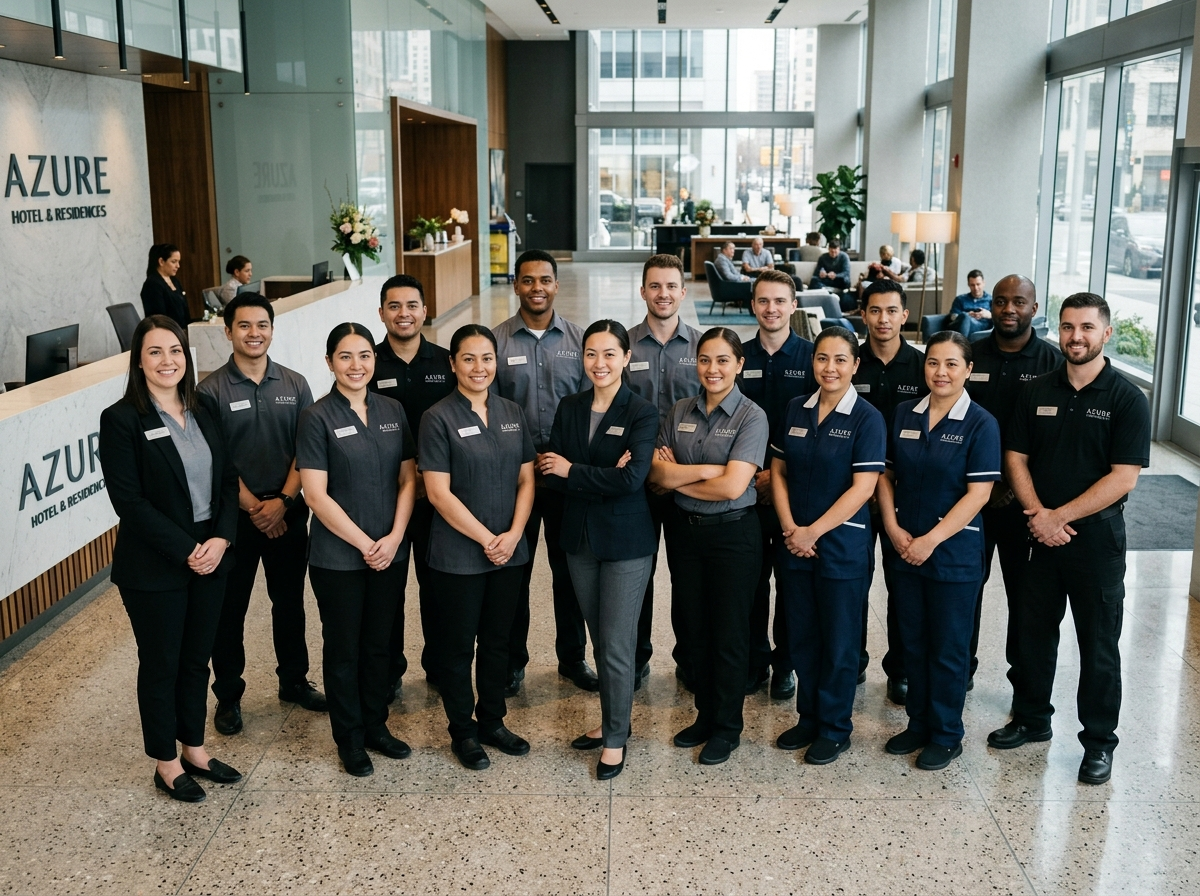
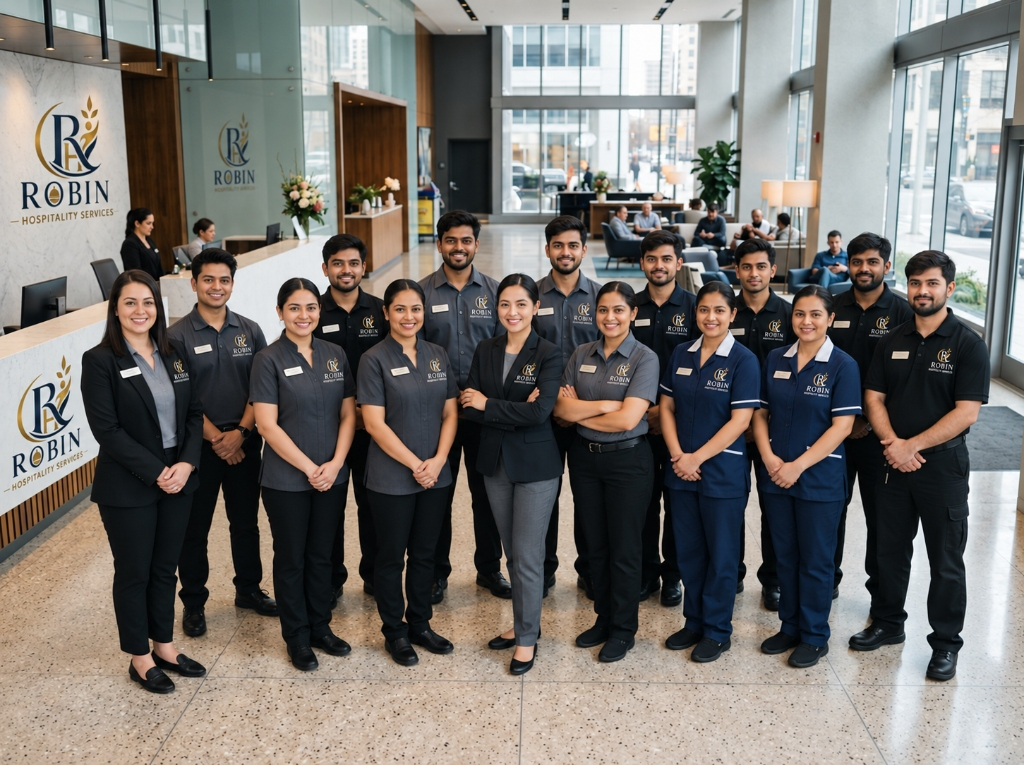
change services section

diff --git a/src/routes/services.catering.tsx b/src/routes/services.catering.tsx
@@ -18,10 +18,10 @@ export function CateringServicePage() {
     {
       id: "industries",
       title: "INDUSTRIES",
-      subtitle: "High-Powered Industrial Cafeteria Solutions",
+      subtitle: "High-Powered Industrial Dining & Meal Solutions",
       image: "/catering-industries.jpg",
       description:
-        "High powered Industrial settings require equally healthy meal options that are also an excellent cost-cutting option with easy operation process and go well with the work environment. Our Industrial Cafeteria provides a balanced meal that boosts employees energy, transferring into better productivity. Apart from the nutritional food, we handpick elements that can add local flavours, making the food tastier and also give vibes of homemade food.",
+        "High powered Industrial settings require equally healthy meal options that are also an excellent cost-cutting option with easy operation process and go well with the work environment. Our Industrial Catering provides a balanced meal that boosts employees energy, transferring into better productivity. Apart from the nutritional food, we handpick elements that can add local flavours, making the food tastier and also give vibes of homemade food.",
     },
     {
       id: "corporate-events",
@@ -34,18 +34,10 @@ export function CateringServicePage() {
     {
       id: "healthcare",
       title: "HEALTH CARE SERVICES",
-      subtitle: "Hygienic & Patient-Nutritious Hospital Cafeterias",
+      subtitle: "Hygienic & Patient-Nutritious Hospital Catering",
       image: "/catering-healthcare.jpg",
       description:
-        "Did we tell you that we specialize in managing Hospital Cafeterias too? We provide custom-food as per the nutritious requirement of the patient. Our hygiene and quality hospital cafeteria operations have made us earn respect and projects more than our competitors.",
-    },
-    {
-      id: "cafeteria-snacks",
-      title: "CAFETERIA / SNACKS BARS",
-      subtitle: "Exclusive Non-Repetitive 30-Day Menus",
-      image: "/catering-cafeteria.jpg",
-      description:
-        "With our capable team alongside us, we can manage the cafeteria at any given place. Be it a fast-paced corporate company, an educational institute, or a high-powered industrial venue. We offer an exclusive non-repetitive 30 days menu that can even be customized as per the client’s budget & requirement.",
+        "Did we tell you that we specialize in Hospital Catering too? We provide custom-food as per the nutritious requirement of the patient. Our hygiene and quality hospital catering operations have made us earn respect and projects more than our competitors.",
     },
     {
       id: "institution",
@@ -82,7 +74,7 @@ export function CateringServicePage() {
             </h1>
             <p className="mt-4 text-cream/95 text-lg sm:text-xl font-medium leading-relaxed max-w-xl">
               <TextWordReveal
-                text="Hygienic, nutritious, and delicious meal solutions for factory workforces, corporate events, healthcare centers, snack bars & educational institutions."
+                text="Hygienic, nutritious, and delicious meal solutions for factory workforces, corporate events, healthcare centers & educational institutions."
                 baseDelay={0.45}
                 stagger={0.04}
               />
@@ -117,12 +109,12 @@ export function CateringServicePage() {
             SERVING QUALITY FOOD WITH ENTHUSIASM & COMMITMENT
           </h2>
           <p className="mt-6 text-brand/85 text-lg sm:text-xl leading-relaxed font-medium">
-            A team of enthusiastic and dedicated staff members that are committed in making your industry’s workplace more efficient, events more exciting, hospitals more hygienic, cafeterias more exclusive, and the next generation of India healthier with the love of serving food and exceptional customer service capabilities.
+            A team of enthusiastic and dedicated staff members that are committed in making your industry’s workplace more efficient, events more exciting, hospitals more hygienic, and the next generation of India healthier with the love of serving food and exceptional customer service capabilities.
           </p>
         </div>
       </section>
 
-      {/* 5 Catering Facilities Deep-Dive Section - FREE OF BOXES & SQUARE UNROUNDED IMAGES */}
+      {/* 4 Catering Facilities Deep-Dive Section - FREE OF BOXES & SQUARE UNROUNDED IMAGES */}
       <section className="relative max-w-7xl mx-auto px-5 sm:px-8 py-12 space-y-20">
         {/* Decorative background Thali element */}
         <img
@@ -173,7 +165,6 @@ export function CateringServicePage() {
             "Industries",
             "Corporate Events",
             "Health Care Services",
-            "Cafeteria / Snacks Bars",
             "Institution",
           ]}
         />

diff --git a/src/routes/about.tsx b/src/routes/about.tsx
@@ -25,14 +25,14 @@ export default function AboutPage() {
               <TextWordReveal text="Nourishing Teams • Powering Factories" baseDelay={0.1} />
             </p>
             <h1 className="font-display text-4xl sm:text-6xl font-extrabold text-white drop-shadow-md leading-tight">
-              <TextWordReveal text="About Robin Hospitality" accentWords={["Hospitality"]} baseDelay={0.2} stagger={0.08} />
+              <TextWordReveal text="ABOUT HOSPITALITY SERVICES " accentWords={["HOSPITALITY"]} baseDelay={0.2} stagger={0.08} />
             </h1>
             <p className="mt-4 text-cream/95 text-lg sm:text-xl font-medium leading-relaxed max-w-xl">
               <TextWordReveal text="Delivering Excellence in Industrial Catering & Workplace Hospitality across India." baseDelay={0.5} stagger={0.04} />
             </p>
             <div className="mt-8 flex flex-wrap gap-4 animate-hero-fade" style={{ animationDelay: "0.85s" }}>
               <a href="/services" className="btn-primary uppercase tracking-wider text-xs px-6 py-3">Explore Services <span>→</span></a>
-              <a href="/contact" className="btn-outline text-white border-white/60 hover:bg-white hover:text-brand uppercase tracking-wider text-xs px-6 py-3">Contact Us</a>
+              <a href="/contact" className="btn-outline text-white border-white/60 hover:bg-black hover:text-white uppercase tracking-wider text-xs px-6 py-3">Contact Us</a>
             </div>
           </div>
         </div>

diff --git a/src/routes/index.tsx b/src/routes/index.tsx
@@ -184,7 +184,7 @@ function HeroSection() {
           </p>
 
           <h1 className="mt-4 font-display text-4xl font-extrabold leading-[1.04] sm:text-6xl lg:text-7xl drop-shadow-sm">
-            <TextWordReveal text="ROBIN HOSPITALITY & SERVICES" accentWords={["&", "SERVICES"]} baseDelay={0.25} stagger={0.08} />
+            <TextWordReveal text="ROBIN HOSPITALITY SERVICES" accentWords={["&", "SERVICES"]} baseDelay={0.25} stagger={0.08} />
           </h1>
 
           <p className="mt-4 max-w-xl text-base leading-relaxed text-brand/90 sm:text-xl font-medium">
@@ -287,7 +287,7 @@ export default function HomePage() {
             <h2 className="section-title text-3xl sm:text-5xl font-extrabold uppercase tracking-tight text-brand mt-3 leading-snug">
               <TextWordReveal
                 text="QUALITY FOOD. CARE BEYOND SERVICE."
-                accentWords={["CARE", "BEYOND", "SERVICE.", "CARE.", "SERVICE"]}
+                accentWords={["QUALITY FOOD", "CARE", "BEYOND", "SERVICE"]}
                 baseDelay={0.1}
                 stagger={0.08}
               />

diff --git a/src/components/Footer.tsx b/src/components/Footer.tsx
@@ -69,7 +69,7 @@ export function Footer() {
         <div>
           <h3 className="footer-title">Contact Us</h3>
           <div className="mt-6 space-y-4 text-sm leading-relaxed text-primary-foreground/80">
-            <p className="footer-contact"><span>☎</span>+91 98765 43210</p>
+            <p className="footer-contact"><span>☎</span><a href="tel:+919799277354" className="hover:text-accent transition-colors">+91 97992 77354</a> / <a href="tel:+918766632286" className="hover:text-accent transition-colors">+91 87666 32286</a></p>
             <p className="footer-contact"><span>✉</span>info@robbinhospitality.com</p>
             <p className="footer-contact"><span>⌖</span>House No. 45, Sector 8, UIT Colony,<br />Bhiwadi, Dist. Alwar, Rajasthan, India<br /></p>
             <p className="footer-contact"><span className="font-mono font-semibold tracking-wider text-amber-300">08DROPS3043B1ZQ</span></p>

diff --git a/src/routes/contact.tsx b/src/routes/contact.tsx
@@ -44,7 +44,7 @@ export default function ContactPage() {
             <h2 className="font-display text-2xl font-bold uppercase">CONTACT INFORMATION</h2>
             <div className="mt-6 space-y-5 text-base">
               <p className="flex items-center gap-3">
-                <span className="text-2xl text-accent">☎</span> +91 98765 43210 / +91 12345 67890
+                <span className="text-2xl text-accent">☎</span> <a href="tel:+919799277354" className="hover:text-accent transition-colors">+91 97992 77354</a> / <a href="tel:+918766632286" className="hover:text-accent transition-colors">+91 87666 32286</a>
               </p>
               <p className="flex items-center gap-3">
                 <span className="text-2xl text-accent">✉</span> info@robbinhospitality.com
